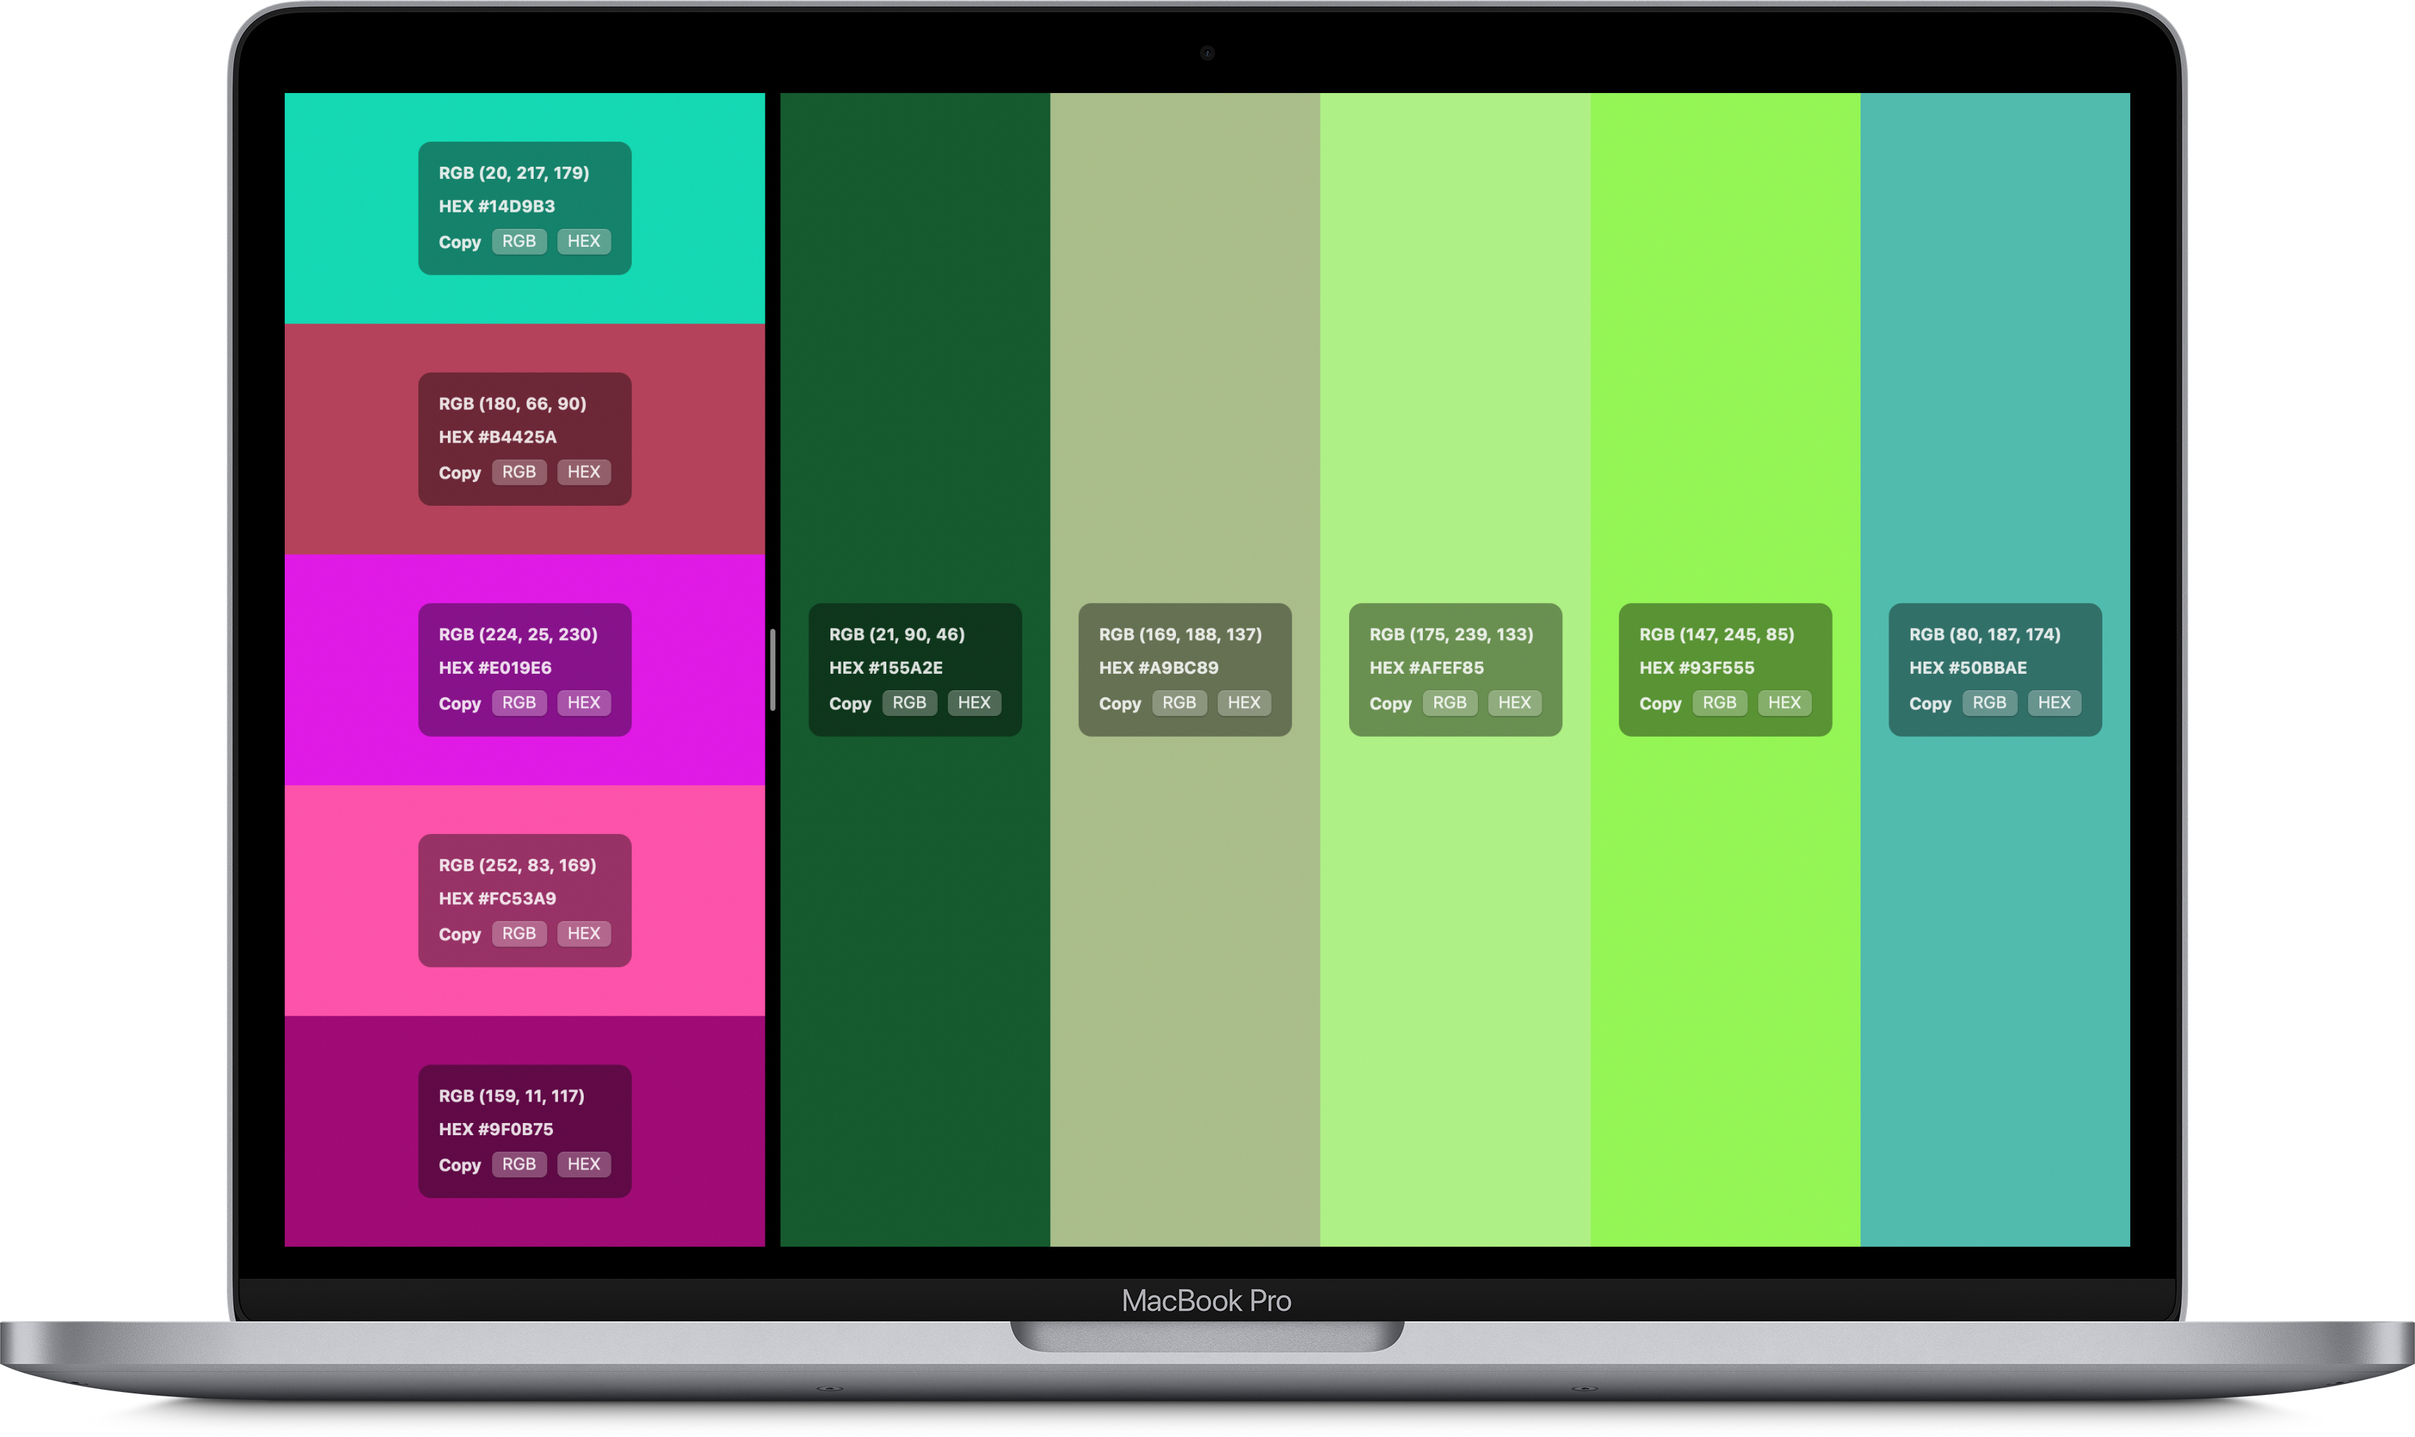
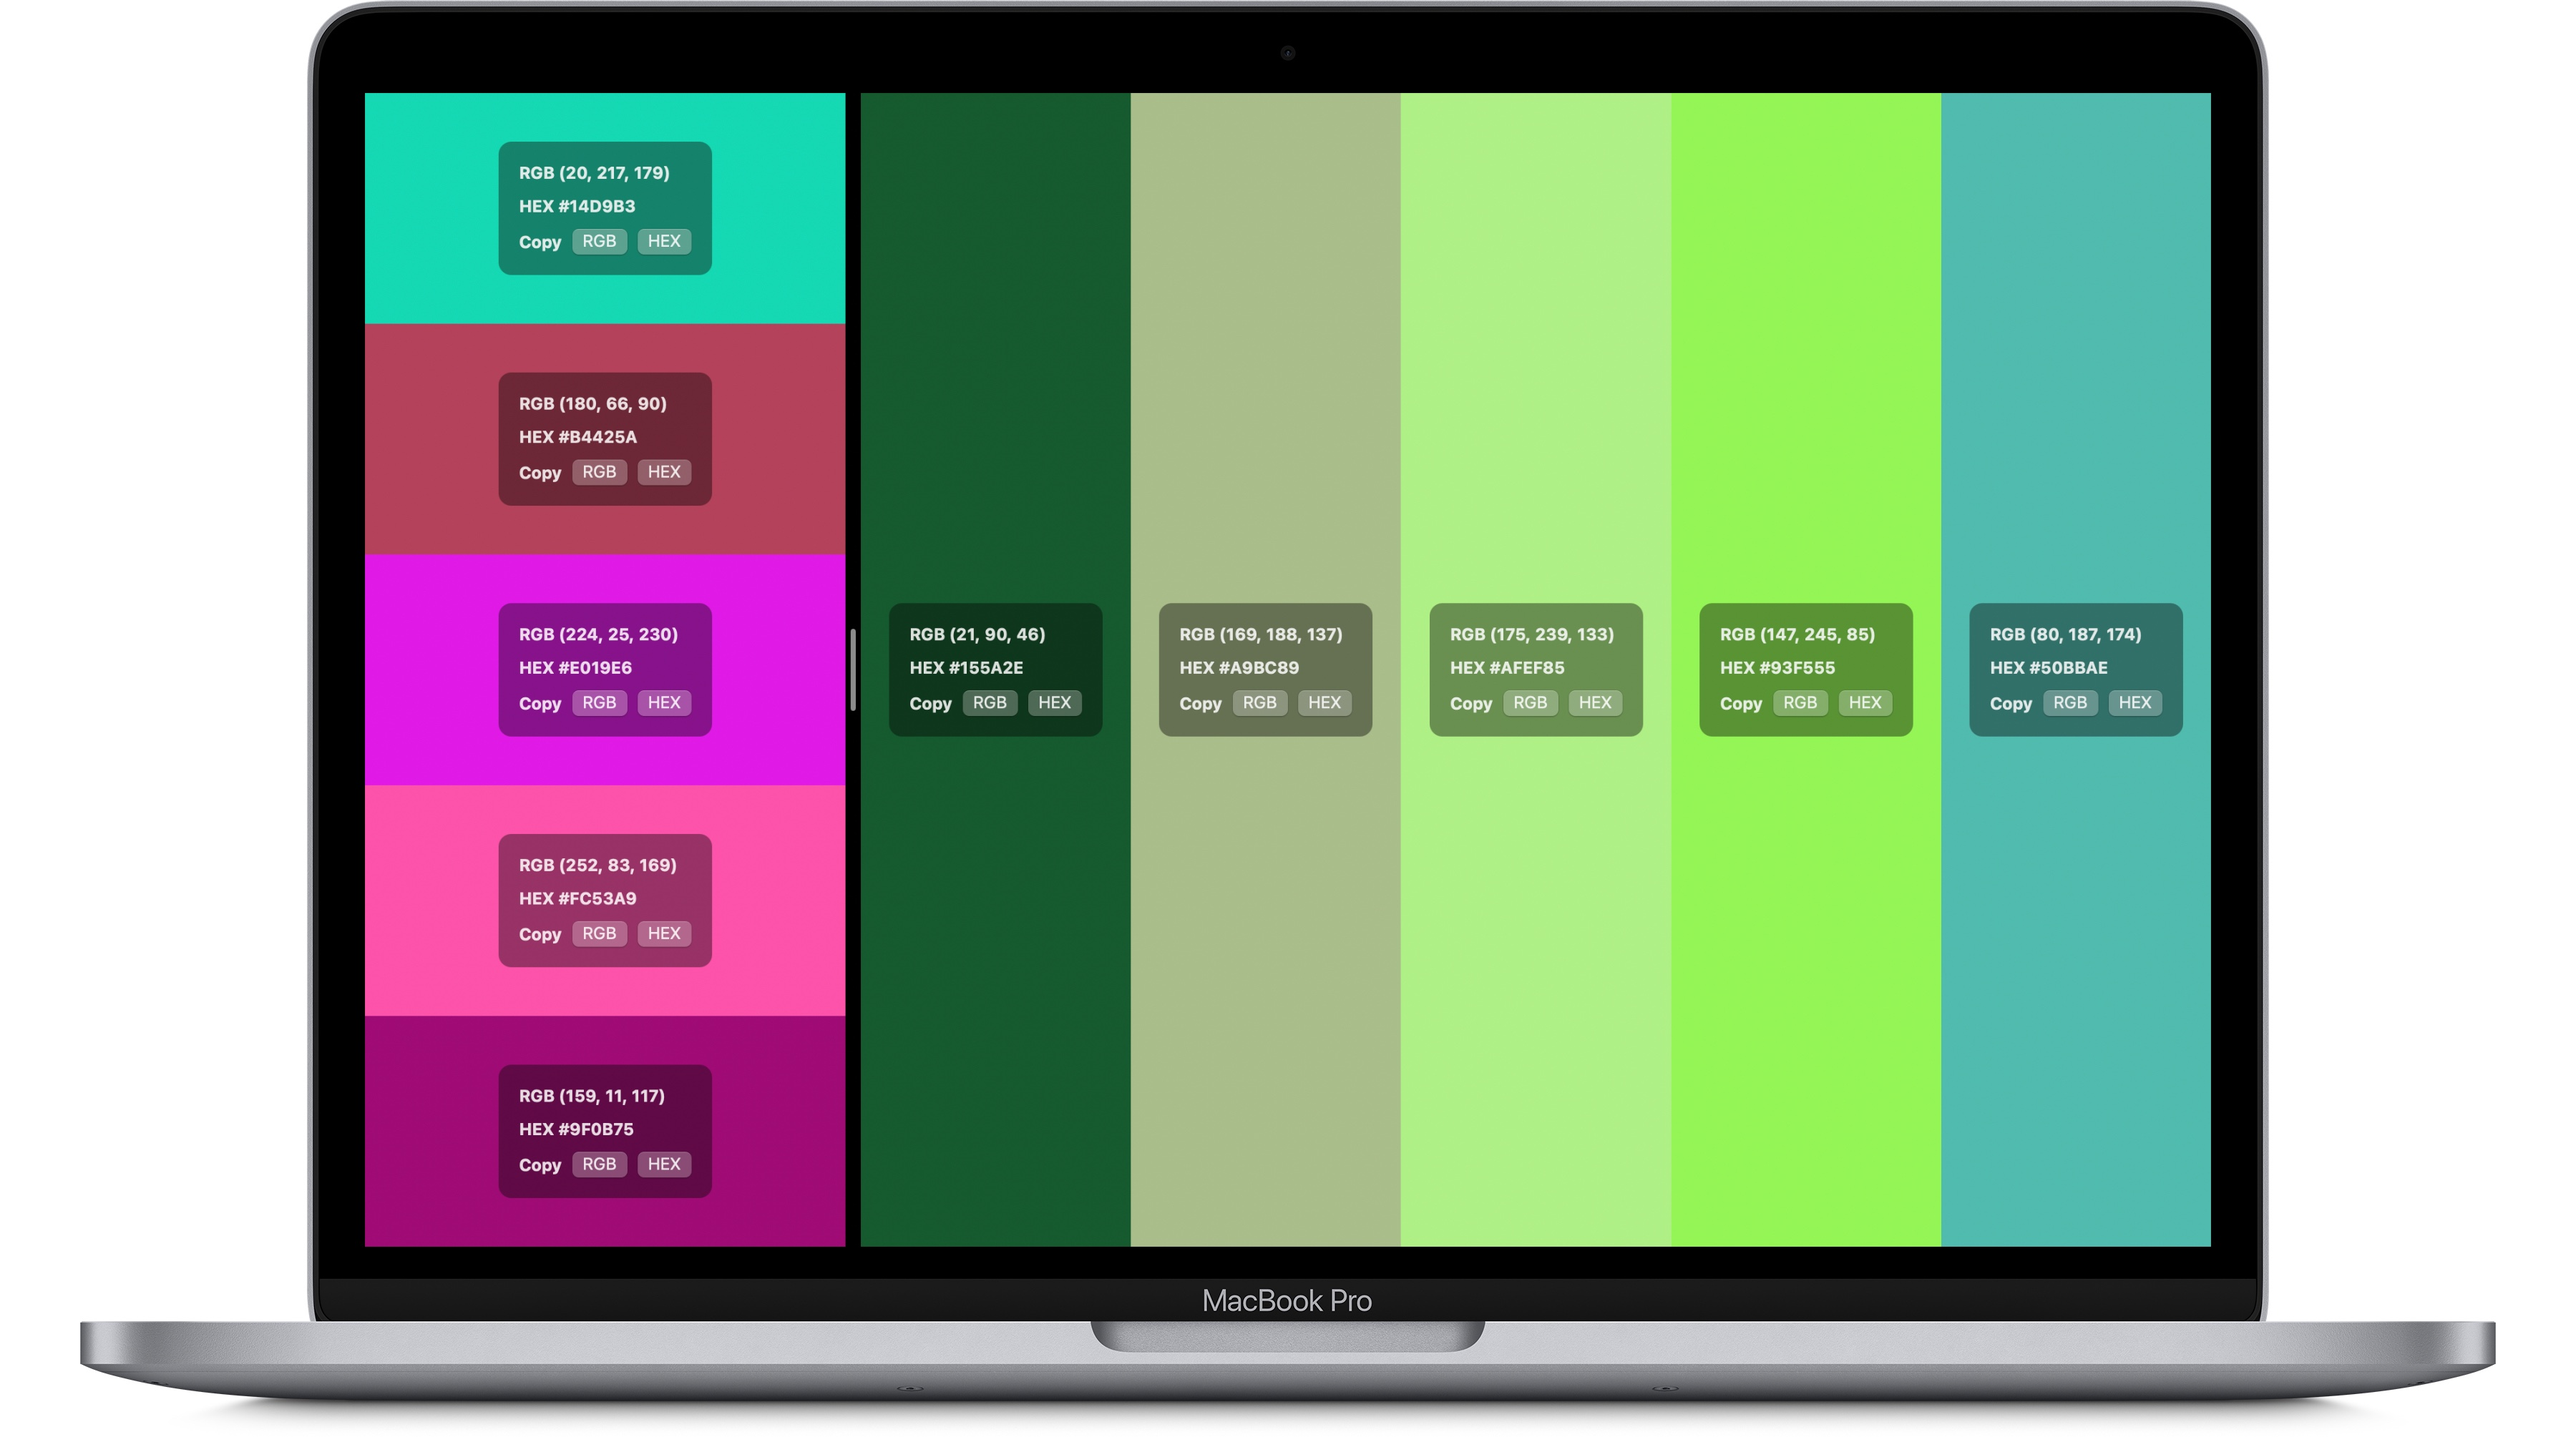
Tiny fix

diff --git a/colorscheme.html b/colorscheme.html
@@ -84,7 +84,7 @@
             </div>
         </div>
         <div class="buffer"></div>
-        <img class="content" src="resources/images/colorscheme2_mac.jpg">
+        <img class="contentMax" src="resources/images/colorscheme2_mac.jpg">
 
         <div class="bufferMax"></div>
 
